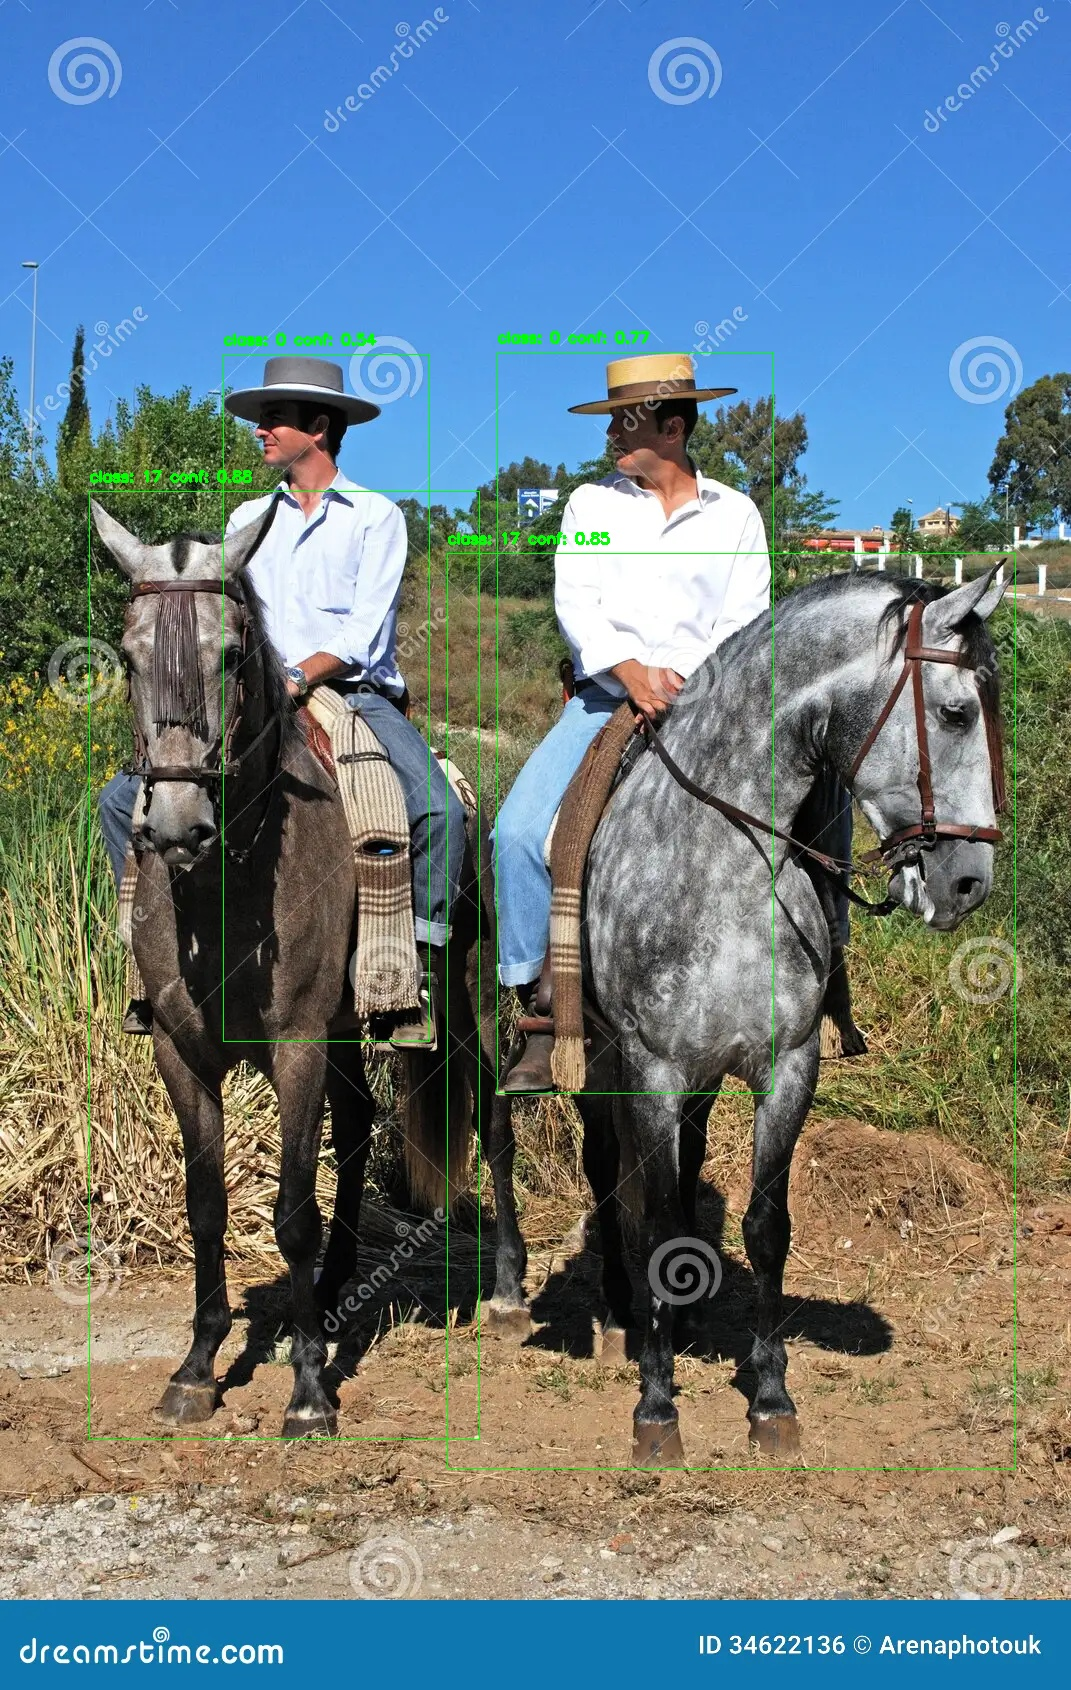
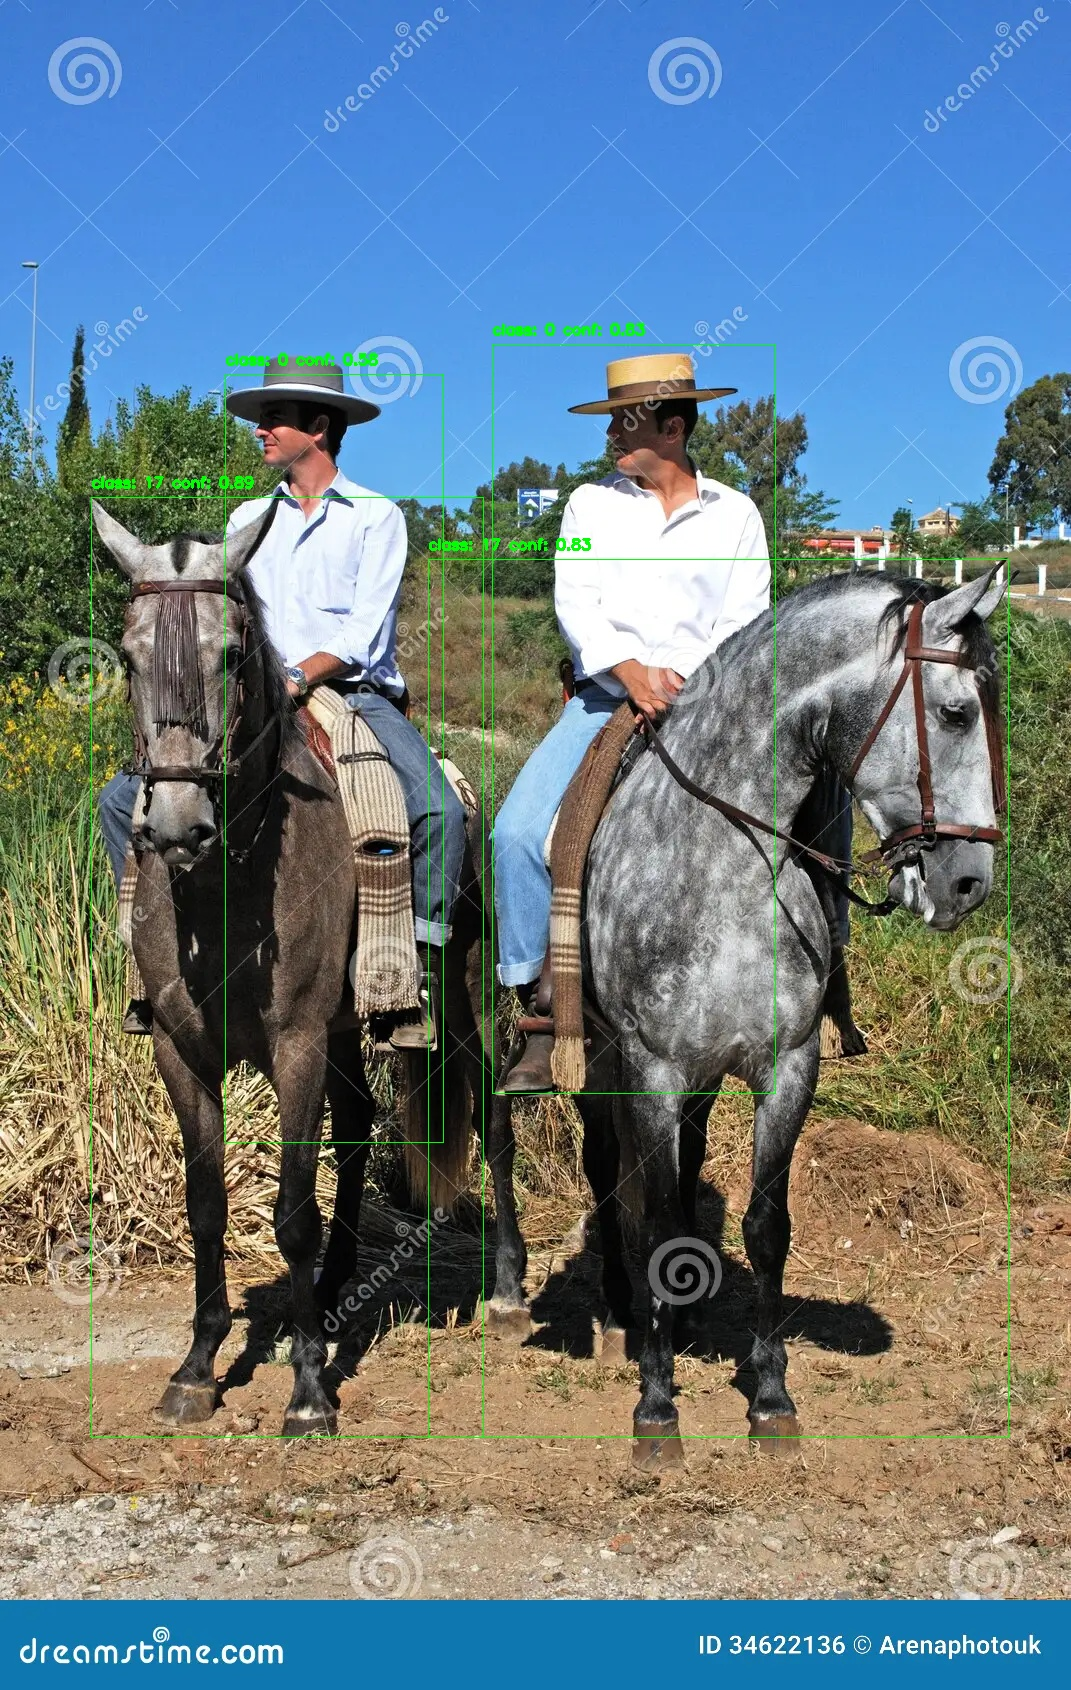
add enum for supported weights

diff --git a/src/yolo9/__init__.py b/src/yolo9/__init__.py
@@ -1,3 +1,4 @@
+from enum import Enum
 from pathlib import Path
 from typing import Dict, Optional
 
@@ -9,10 +10,17 @@ from yolo9.utils.general import LOGGER, non_max_suppression
 from yolo9.utils.torch_utils import select_device
 
 
+class CocoModels(Enum):
+    YOLO9_N = "yolov9-n.pt"
+    YOLO9_S = "yolov9-e.pt"
+    YOLO9_M = "yolov9-m.pt"
+    YOLO9_L = "yolov9-s.pt"
+
+
 class YOLO9:
     def __init__(
         self,
-        model_name: str,
+        model: CocoModels,
         device: str,
         dnn: bool = False,
         half: bool = False,
@@ -26,7 +34,7 @@ class YOLO9:
         weights_dir.mkdir(exist_ok=True)
         data = Path(__file__).parent / 'data' / 'coco.yaml'
 
-        self.weights_path = weights_dir / f'{model_name}.pt'
+        self.weights_path = weights_dir / f'{model.value}'
         self.device = select_device(device)
         self.conf_thres = conf_thres
         self.iou_thres = iou_thres
@@ -35,7 +43,7 @@ class YOLO9:
         if not self.weights_path.exists():
             LOGGER.info(f"Downloading {self.weights_path.name} from GitHub releases...")
             import requests
-            url = f"https://github.com/WongKinYiu/yolov9/releases/download/v0.1/{model_name}.pt"
+            url = f"https://github.com/alejandroalfonsoyero/yolov9/releases/download/v1.0.0/{model.value}.pt"
             response = requests.get(url, stream=True)
             response.raise_for_status()
 

diff --git a/demo.py b/demo.py
@@ -1,10 +1,10 @@
 import cv2
-from yolo9 import YOLO9
+from yolo9 import YOLO9, CocoModels
 import numpy as np
 
 if __name__ == "__main__":
     yolo = YOLO9(
-        model_name="yolov9-c",
+        model=CocoModels.YOLO9_L,
         device="cpu",
         conf_thres=0.25,
         iou_thres=0.45,
@@ -14,7 +14,7 @@ if __name__ == "__main__":
 
     img = cv2.imread("man_and_horse.webp")
     detections = yolo.detect(img)
-    
+
     for detection in detections:
         polygon, confidence, class_id = detection
         # Convert polygon points to integer coordinates for drawing
